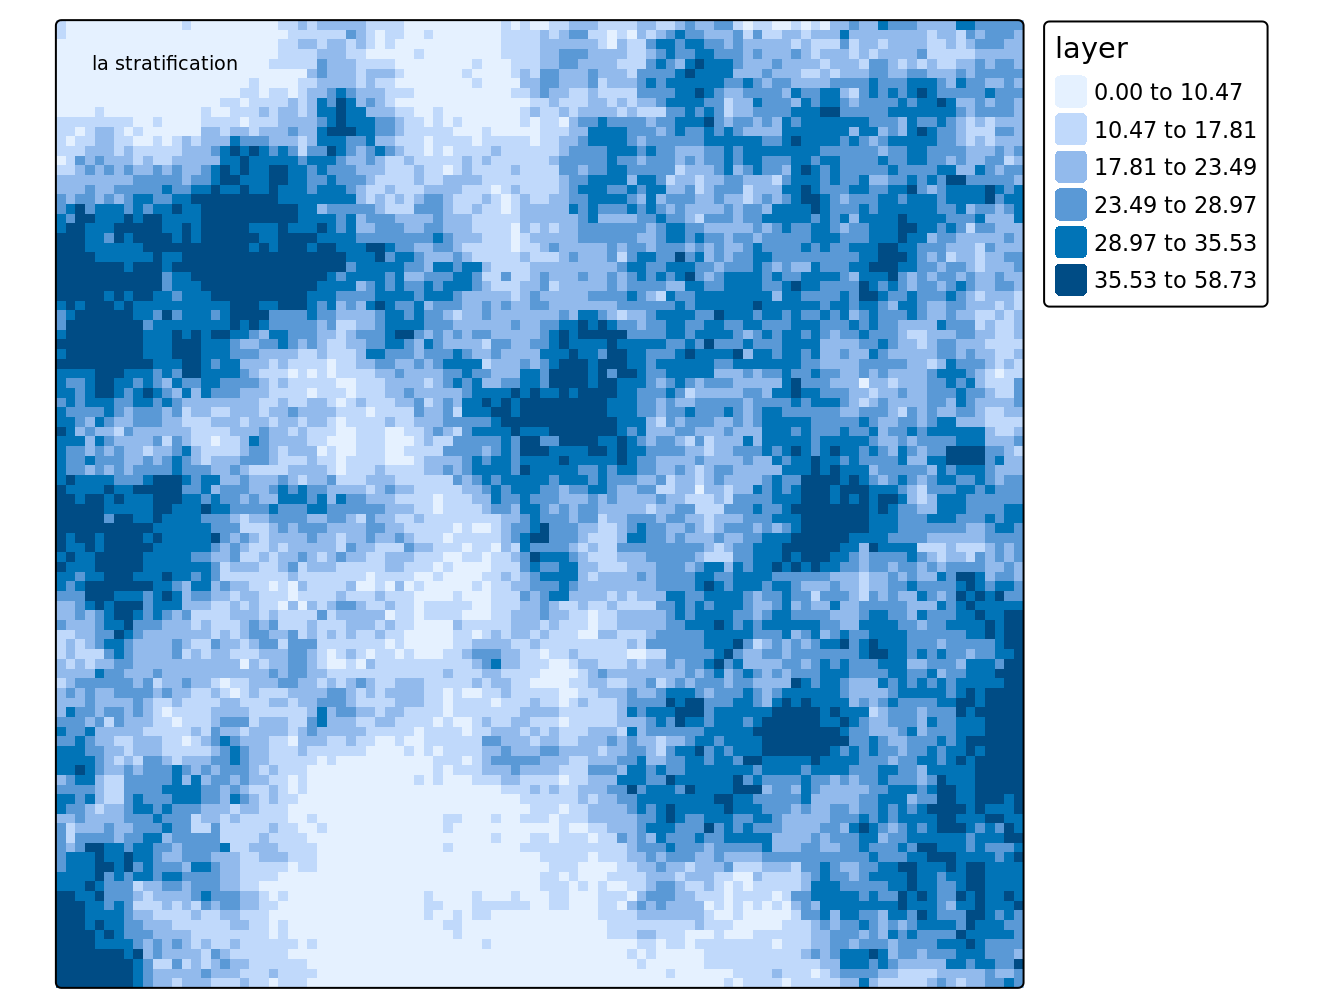
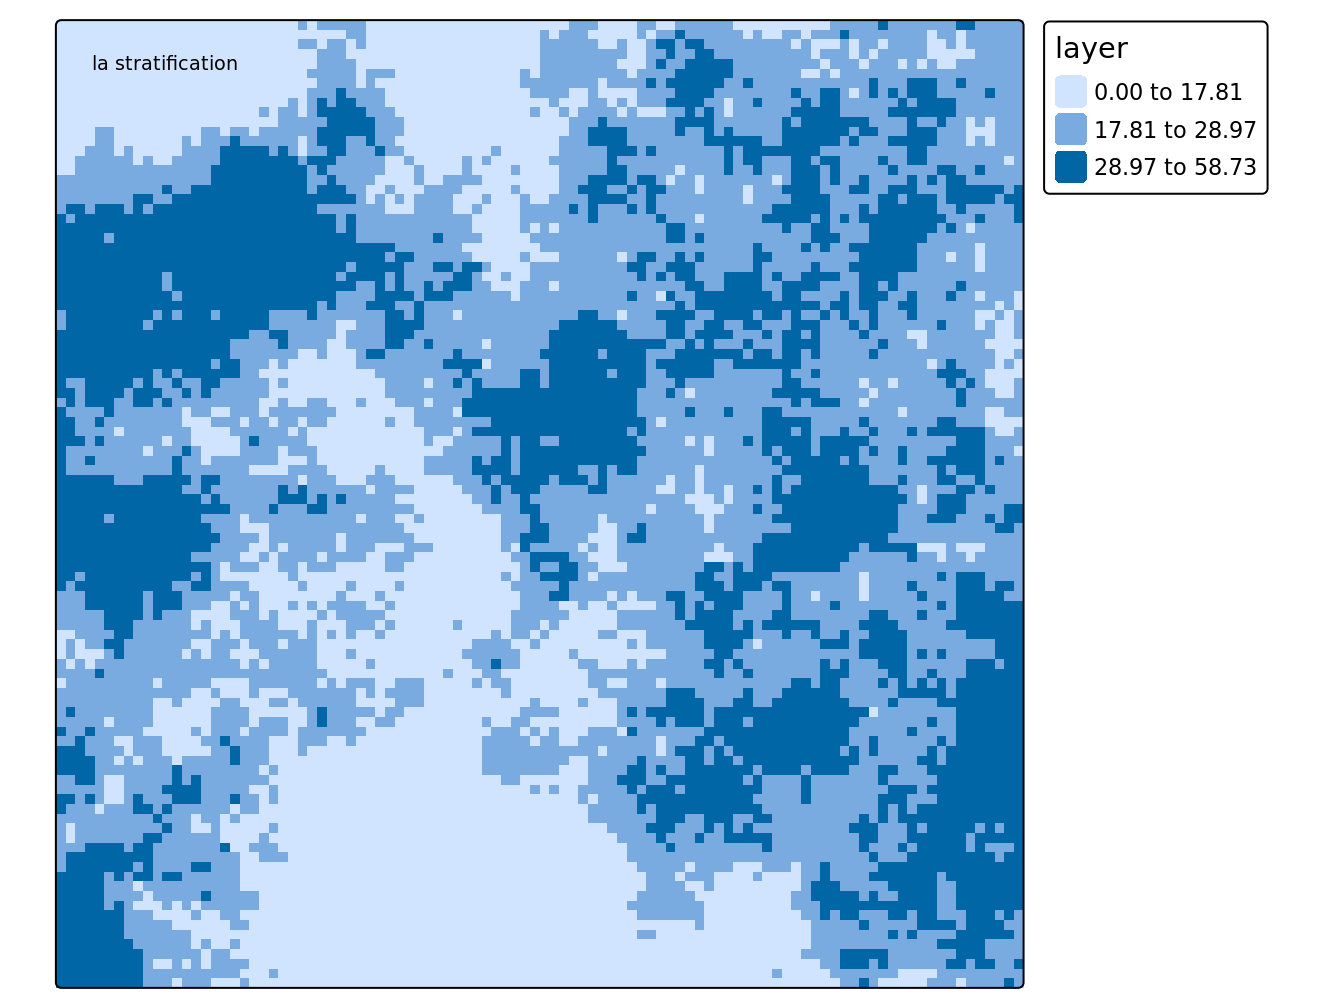
simplifier le nombre de states

diff --git a/docs/léchantillonnage-aléatoire-stratifié.html b/docs/léchantillonnage-aléatoire-stratifié.html
@@ -303,7 +303,7 @@ En sortie, on dispose des limites des classes et de l’affectation de chaque ob
 <div class="sourceCode" id="cb58"><pre class="downlit sourceCode r">
 <code class="sourceCode R"><span><span class="kw"><a href="https://rdrr.io/r/base/library.html">library</a></span><span class="op">(</span><span class="va">stratification</span><span class="op">)</span></span>
 <span><span class="va">n.echantillons</span> <span class="op">&lt;-</span>  <span class="fl">20</span> </span>
-<span><span class="va">n.strates</span> <span class="op">&lt;-</span>  <span class="fl">6</span> </span>
+<span><span class="va">n.strates</span> <span class="op">&lt;-</span>  <span class="fl">3</span> </span>
 <span><span class="va">nclass</span> <span class="op">&lt;-</span> <span class="va">n.strates</span> <span class="op">*</span> <span class="fl">100</span> <span class="co">#nombre de classes pour calculer l'histogramme</span></span>
 <span></span>
 <span><span class="va">dt</span> <span class="op">=</span> <span class="fu"><a href="https://rdrr.io/r/base/cbind.html">cbind.data.frame</a></span><span class="op">(</span><span class="fu"><a href="https://edzer.github.io/sp/reference/coordinates.html">coordinates</a></span><span class="op">(</span><span class="va">cov</span><span class="op">)</span>,cov <span class="op">=</span> <span class="fu"><a href="https://rspatial.github.io/terra/reference/values.html">values</a></span><span class="op">(</span><span class="va">cov</span><span class="op">)</span><span class="op">)</span></span>
@@ -318,10 +318,10 @@ En sortie, on dispose des limites des classes et de l’affectation de chaque ob
 <span>  nclass <span class="op">=</span> <span class="va">nclass</span><span class="op">)</span></span>
 <span></span>
 <span><span class="va">optstrata</span><span class="op">$</span><span class="va">bh</span> <span class="co">#les limites des strates</span></span></code></pre></div>
-<pre><code>## [1] 10.47329 17.81438 23.49149 28.97284 35.53088</code></pre>
+<pre><code>## [1] 17.81438 28.97284</code></pre>
 <div class="sourceCode" id="cb60"><pre class="downlit sourceCode r">
 <code class="sourceCode R"><span><span class="va">optstrata</span><span class="op">$</span><span class="va">Nh</span> <span class="co">#la taille des strates </span></span></code></pre></div>
-<pre><code>## [1] 1257 1648 2112 2217 1846  920</code></pre>
+<pre><code>## [1] 2905 4329 2766</code></pre>
 <p>La figure suivante présente covariable dont la légende correspond à la limite des classes définies à l’étape précédente.</p>
 <div class="sourceCode" id="cb62"><pre class="downlit sourceCode r">
 <code class="sourceCode R"><span><span class="co"># dessin de la stratification</span></span>
@@ -344,10 +344,10 @@ Figure 5.1: Carte des strates définies sur une variable quantitative
 <div class="sourceCode" id="cb63"><pre class="downlit sourceCode r">
 <code class="sourceCode R"><span><span class="va">w_h</span> <span class="op">&lt;-</span> <span class="va">optstrata</span><span class="op">$</span><span class="va">Nh</span> <span class="op">/</span> <span class="fu"><a href="https://rdrr.io/r/base/sum.html">sum</a></span><span class="op">(</span><span class="va">optstrata</span><span class="op">$</span><span class="va">Nh</span><span class="op">)</span></span>
 <span><span class="op">(</span><span class="va">n_h</span> <span class="op">&lt;-</span> <span class="fu"><a href="https://rdrr.io/r/base/Round.html">round</a></span><span class="op">(</span><span class="va">w_h</span> <span class="op">*</span> <span class="va">n.echantillons</span><span class="op">)</span><span class="op">)</span></span></code></pre></div>
-<pre><code>## [1] 3 3 4 4 4 2</code></pre>
+<pre><code>## [1] 6 9 6</code></pre>
 <div class="sourceCode" id="cb65"><pre class="downlit sourceCode r">
 <code class="sourceCode R"><span><span class="fu"><a href="https://rdrr.io/r/base/sum.html">sum</a></span><span class="op">(</span><span class="va">n_h</span><span class="op">)</span></span></code></pre></div>
-<pre><code>## [1] 20</code></pre>
+<pre><code>## [1] 21</code></pre>
 <div class="sourceCode" id="cb67"><pre class="downlit sourceCode r">
 <code class="sourceCode R"><span><span class="va">n_h</span><span class="op">[</span><span class="fl">1</span><span class="op">]</span> <span class="op">&lt;-</span> <span class="va">n_h</span><span class="op">[</span><span class="fl">1</span><span class="op">]</span> <span class="op">+</span> <span class="fl">1</span></span>
 <span></span>
@@ -378,7 +378,7 @@ Figure 5.1: Carte des strates définies sur une variable quantitative
 <span>               INDEX <span class="op">=</span> <span class="va">mysample</span><span class="op">$</span><span class="va">strate</span>,</span>
 <span>               FUN <span class="op">=</span> <span class="va">mean</span><span class="op">)</span></span>
 <span><span class="op">(</span><span class="va">mz</span> <span class="op">&lt;-</span> <span class="fu"><a href="https://rdrr.io/r/base/sum.html">sum</a></span><span class="op">(</span><span class="va">w_h</span> <span class="op">*</span> <span class="va">mz_h</span><span class="op">)</span><span class="op">)</span></span></code></pre></div>
-<pre><code>## [1] 4.873588</code></pre>
+<pre><code>## [1] 5.216991</code></pre>
 <p>Et pour la variance, il est nécessaire de calculer la variance par state et de calculer ensuite la moyenne de ces variances.</p>
 <div class="sourceCode" id="cb71"><pre class="downlit sourceCode r">
 <code class="sourceCode R"><span><span class="va">S2z_h</span> <span class="op">&lt;-</span> <span class="fu"><a href="https://rdrr.io/r/base/tapply.html">tapply</a></span><span class="op">(</span><span class="va">mysample</span><span class="op">$</span><span class="va">sim1</span>,</span>
@@ -386,7 +386,7 @@ Figure 5.1: Carte des strates définies sur une variable quantitative
 <span>                FUN <span class="op">=</span> <span class="va">var</span><span class="op">)</span></span>
 <span></span>
 <span><span class="op">(</span><span class="va">v_mz</span> <span class="op">&lt;-</span> <span class="fu"><a href="https://rdrr.io/r/base/sum.html">sum</a></span><span class="op">(</span><span class="va">w_h</span><span class="op">^</span><span class="fl">2</span>   <span class="op">*</span> <span class="va">S2z_h</span> <span class="op">/</span> <span class="va">n_h</span><span class="op">)</span><span class="op">)</span></span></code></pre></div>
-<pre><code>## [1] 0.01633529</code></pre>
+<pre><code>## [1] 0.04280496</code></pre>
 <div class="sourceCode" id="cb73"><pre class="downlit sourceCode r">
 <code class="sourceCode R"><span><span class="co">#The sampling variance can be computed without error from the population</span></span>
 <span><span class="va">S2z_h_pop</span> <span class="op">&lt;-</span> <span class="fu"><a href="https://rdrr.io/r/base/tapply.html">tapply</a></span><span class="op">(</span><span class="va">dt</span><span class="op">$</span><span class="va">sim1</span>,</span>
@@ -394,13 +394,13 @@ Figure 5.1: Carte des strates définies sur une variable quantitative
 <span>                    FUN <span class="op">=</span> <span class="va">var</span><span class="op">)</span></span>
 <span></span>
 <span><span class="op">(</span><span class="va">v_mz_true</span> <span class="op">&lt;-</span> <span class="fu"><a href="https://rdrr.io/r/base/sum.html">sum</a></span><span class="op">(</span><span class="va">w_h</span><span class="op">^</span><span class="fl">2</span>  <span class="op">*</span> <span class="va">S2z_h_pop</span> <span class="op">/</span> <span class="va">n_h</span><span class="op">)</span><span class="op">)</span></span></code></pre></div>
-<pre><code>## [1] 0.02650295</code></pre>
+<pre><code>## [1] 0.02903045</code></pre>
 <div class="sourceCode" id="cb75"><pre class="downlit sourceCode r">
 <code class="sourceCode R"><span><span class="co">#compute gain in precision due to stratification (stratification effect)</span></span>
 <span><span class="va">v_mz_SI_true</span> <span class="op">&lt;-</span> <span class="op">(</span><span class="fl">1</span> <span class="op">-</span> <span class="va">n.echantillons</span> <span class="op">/</span> <span class="fu"><a href="https://rdrr.io/r/base/sum.html">sum</a></span><span class="op">(</span><span class="va">optstrata</span><span class="op">$</span><span class="va">Nh</span><span class="op">)</span><span class="op">)</span> <span class="op">*</span> <span class="fu"><a href="https://rdrr.io/r/stats/cor.html">var</a></span><span class="op">(</span><span class="va">dt</span><span class="op">$</span><span class="va">sim1</span><span class="op">)</span> <span class="op">/</span> <span class="va">n.echantillons</span></span>
 <span><span class="op">(</span><span class="va">gain</span> <span class="op">&lt;-</span> <span class="va">v_mz_SI_true</span> <span class="op">/</span> <span class="va">v_mz_true</span><span class="op">)</span></span></code></pre></div>
-<pre><code>## [1] 1.280918</code></pre>
-<p>Voici donc la moyenne STSI <span class="math inline">\(4.8735882\)</span> et la variance dans ce cas <span class="math inline">\(0.0163353\)</span></p>
+<pre><code>## [1] 1.169397</code></pre>
+<p>Voici donc la moyenne STSI <span class="math inline">\(5.2169908\)</span> et la variance dans ce cas <span class="math inline">\(0.042805\)</span></p>
 <div class="sourceCode" id="cb77"><pre class="downlit sourceCode r">
 <code class="sourceCode R"><span><span class="co"># calcul de l'interval de confiance selon les deux lois</span></span>
 <span><span class="va">ICT</span> <span class="op">&lt;-</span> <span class="va">talpha</span> <span class="op">*</span> <span class="fu"><a href="https://rdrr.io/r/base/MathFun.html">sqrt</a></span><span class="op">(</span><span class="va">v_mz</span><span class="op">)</span></span>
@@ -408,7 +408,7 @@ Figure 5.1: Carte des strates définies sur une variable quantitative
 <span><span class="co"># comme n&lt; 30, on garde ICT</span></span>
 <span><span class="co"># Est-ce que la vraie moyenne est dans l'IC student</span></span>
 <span><span class="va">Moy</span> <span class="op">&lt;</span> <span class="va">mz</span> <span class="op">+</span> <span class="va">ICT</span></span></code></pre></div>
-<pre><code>## [1] FALSE</code></pre>
+<pre><code>## [1] TRUE</code></pre>
 <div class="sourceCode" id="cb79"><pre class="downlit sourceCode r">
 <code class="sourceCode R"><span><span class="va">Moy</span> <span class="op">&gt;</span> <span class="va">mz</span> <span class="op">-</span> <span class="va">ICT</span></span></code></pre></div>
 <pre><code>## [1] TRUE</code></pre>
@@ -418,8 +418,8 @@ Figure 5.1: Carte des strates définies sur une variable quantitative
 <span>      ICbas <span class="op">=</span> <span class="va">mz</span> <span class="op">-</span> <span class="va">ICT</span>,</span>
 <span>      ICHaut <span class="op">=</span> <span class="va">mz</span> <span class="op">+</span> <span class="va">ICT</span>, </span>
 <span>      <span class="va">Moy</span><span class="op">)</span></span></code></pre></div>
-<pre><code>##            mz        IC   ICbas   ICHaut      Moy
-## [1,] 4.873588 0.2675085 4.60608 5.141097 5.298602</code></pre>
+<pre><code>##            mz        IC    ICbas   ICHaut      Moy
+## [1,] 5.216991 0.4330333 4.783957 5.650024 5.298602</code></pre>
 <p>Pour mémoire, voici le résultat pour les strates compactes</p>
 <div class="sourceCode" id="cb83"><pre class="downlit sourceCode r">
 <code class="sourceCode R"><span><span class="va">resSC</span></span></code></pre></div>
@@ -473,7 +473,7 @@ Figure 5.1: Carte des strates définies sur une variable quantitative
 <footer class="bg-primary text-light mt-5"><div class="container"><div class="row">
 
   <div class="col-12 col-md-6 mt-3">
-    <p>"<strong>Cours sur les plans d’échantillonnage statistique dans l’espace pour l’étude des sols</strong>" was written by Nicolas Saby, INRAe Infosol, Orléans France. It was last built on 2026-01-05.</p>
+    <p>"<strong>Cours sur les plans d’échantillonnage statistique dans l’espace pour l’étude des sols</strong>" was written by Nicolas Saby, INRAe Infosol, Orléans France. It was last built on 2026-01-07.</p>
   </div>
 
   <div class="col-12 col-md-6 mt-3">

diff --git a/docs/CARTO.html b/docs/CARTO.html
@@ -497,7 +497,7 @@ Figure 7.6: Plan optimisé par K-moyenne sur les covariables, représentation da
 <footer class="bg-primary text-light mt-5"><div class="container"><div class="row">
 
   <div class="col-12 col-md-6 mt-3">
-    <p>"<strong>Cours sur les plans d’échantillonnage statistique dans l’espace pour l’étude des sols</strong>" was written by Nicolas Saby, INRAe Infosol, Orléans France. It was last built on 2026-01-05.</p>
+    <p>"<strong>Cours sur les plans d’échantillonnage statistique dans l’espace pour l’étude des sols</strong>" was written by Nicolas Saby, INRAe Infosol, Orléans France. It was last built on 2026-01-07.</p>
   </div>
 
   <div class="col-12 col-md-6 mt-3">

diff --git a/docs/SI.html b/docs/SI.html
@@ -469,7 +469,7 @@ Figure 4.3: Représentation de l’intervalle de confiance à 95 % et de la vrai
 <footer class="bg-primary text-light mt-5"><div class="container"><div class="row">
 
   <div class="col-12 col-md-6 mt-3">
-    <p>"<strong>Cours sur les plans d’échantillonnage statistique dans l’espace pour l’étude des sols</strong>" was written by Nicolas Saby, INRAe Infosol, Orléans France. It was last built on 2026-01-05.</p>
+    <p>"<strong>Cours sur les plans d’échantillonnage statistique dans l’espace pour l’étude des sols</strong>" was written by Nicolas Saby, INRAe Infosol, Orléans France. It was last built on 2026-01-07.</p>
   </div>
 
   <div class="col-12 col-md-6 mt-3">

diff --git a/docs/index.html b/docs/index.html
@@ -114,7 +114,7 @@ Le site de l’unité <a href="https://info-et-sols.val-de-loire.hub.inrae.fr/">
 <footer class="bg-primary text-light mt-5"><div class="container"><div class="row">
 
   <div class="col-12 col-md-6 mt-3">
-    <p>"<strong>Cours sur les plans d’échantillonnage statistique dans l’espace pour l’étude des sols</strong>" was written by Nicolas Saby, INRAe Infosol, Orléans France. It was last built on 2026-01-05.</p>
+    <p>"<strong>Cours sur les plans d’échantillonnage statistique dans l’espace pour l’étude des sols</strong>" was written by Nicolas Saby, INRAe Infosol, Orléans France. It was last built on 2026-01-07.</p>
   </div>
 
   <div class="col-12 col-md-6 mt-3">

diff --git a/docs/references.html b/docs/references.html
@@ -126,7 +126,7 @@ Walvoort, D. J. J., D. J. Brus, and J. J. de Gruijter. 2010. <span>“An <span>R
 <footer class="bg-primary text-light mt-5"><div class="container"><div class="row">
 
   <div class="col-12 col-md-6 mt-3">
-    <p>"<strong>Cours sur les plans d’échantillonnage statistique dans l’espace pour l’étude des sols</strong>" was written by Nicolas Saby, INRAe Infosol, Orléans France. It was last built on 2026-01-05.</p>
+    <p>"<strong>Cours sur les plans d’échantillonnage statistique dans l’espace pour l’étude des sols</strong>" was written by Nicolas Saby, INRAe Infosol, Orléans France. It was last built on 2026-01-07.</p>
   </div>
 
   <div class="col-12 col-md-6 mt-3">

diff --git a/docs/SY-QUICK.html b/docs/SY-QUICK.html
@@ -275,7 +275,7 @@ Figure 6.1: Exemple de grilles systématiques placées au hasard
 <footer class="bg-primary text-light mt-5"><div class="container"><div class="row">
 
   <div class="col-12 col-md-6 mt-3">
-    <p>"<strong>Cours sur les plans d’échantillonnage statistique dans l’espace pour l’étude des sols</strong>" was written by Nicolas Saby, INRAe Infosol, Orléans France. It was last built on 2026-01-05.</p>
+    <p>"<strong>Cours sur les plans d’échantillonnage statistique dans l’espace pour l’étude des sols</strong>" was written by Nicolas Saby, INRAe Infosol, Orléans France. It was last built on 2026-01-07.</p>
   </div>
 
   <div class="col-12 col-md-6 mt-3">

diff --git a/docs/404.html b/docs/404.html
@@ -102,7 +102,7 @@ the table of contents to find the page you are looking for.</p>
 <footer class="bg-primary text-light mt-5"><div class="container"><div class="row">
 
   <div class="col-12 col-md-6 mt-3">
-    <p>"<strong>Cours sur les plans d’échantillonnage statistique dans l’espace pour l’étude des sols</strong>" was written by Nicolas Saby, INRAe Infosol, Orléans France. It was last built on 2026-01-05.</p>
+    <p>"<strong>Cours sur les plans d’échantillonnage statistique dans l’espace pour l’étude des sols</strong>" was written by Nicolas Saby, INRAe Infosol, Orléans France. It was last built on 2026-01-07.</p>
   </div>
 
   <div class="col-12 col-md-6 mt-3">

diff --git a/docs/data.html b/docs/data.html
@@ -263,7 +263,7 @@ Figure 3.4: Covariables raster en Australie
 <footer class="bg-primary text-light mt-5"><div class="container"><div class="row">
 
   <div class="col-12 col-md-6 mt-3">
-    <p>"<strong>Cours sur les plans d’échantillonnage statistique dans l’espace pour l’étude des sols</strong>" was written by Nicolas Saby, INRAe Infosol, Orléans France. It was last built on 2026-01-05.</p>
+    <p>"<strong>Cours sur les plans d’échantillonnage statistique dans l’espace pour l’étude des sols</strong>" was written by Nicolas Saby, INRAe Infosol, Orléans France. It was last built on 2026-01-07.</p>
   </div>
 
   <div class="col-12 col-md-6 mt-3">

diff --git a/docs/WHY.html b/docs/WHY.html
@@ -437,7 +437,7 @@ CRAN (R 4.4.2)
 <footer class="bg-primary text-light mt-5"><div class="container"><div class="row">
 
   <div class="col-12 col-md-6 mt-3">
-    <p>"<strong>Cours sur les plans d’échantillonnage statistique dans l’espace pour l’étude des sols</strong>" was written by Nicolas Saby, INRAe Infosol, Orléans France. It was last built on 2026-01-05.</p>
+    <p>"<strong>Cours sur les plans d’échantillonnage statistique dans l’espace pour l’étude des sols</strong>" was written by Nicolas Saby, INRAe Infosol, Orléans France. It was last built on 2026-01-07.</p>
   </div>
 
   <div class="col-12 col-md-6 mt-3">

diff --git a/docs/Script.html b/docs/Script.html
@@ -200,7 +200,7 @@
 <footer class="bg-primary text-light mt-5"><div class="container"><div class="row">
 
   <div class="col-12 col-md-6 mt-3">
-    <p>"<strong>Cours sur les plans d’échantillonnage statistique dans l’espace pour l’étude des sols</strong>" was written by Nicolas Saby, INRAe Infosol, Orléans France. It was last built on 2026-01-05.</p>
+    <p>"<strong>Cours sur les plans d’échantillonnage statistique dans l’espace pour l’étude des sols</strong>" was written by Nicolas Saby, INRAe Infosol, Orléans France. It was last built on 2026-01-07.</p>
   </div>
 
   <div class="col-12 col-md-6 mt-3">
